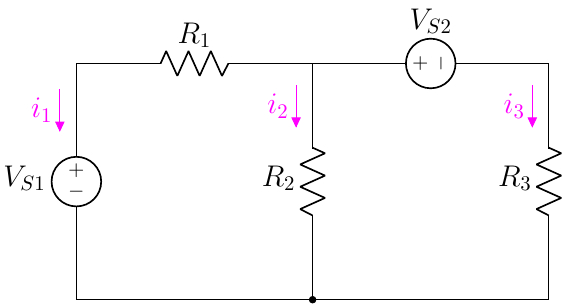
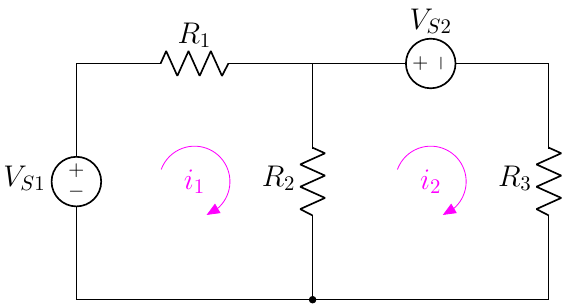
edit 3.36

diff --git a/1.5 Mesh Analysis/3.4 Mesh Analysis/3.36(new).tex b/1.5 Mesh Analysis/3.4 Mesh Analysis/3.36(new).tex
@@ -2,9 +2,9 @@
 \begin{document}
 \begin{circuitikz}[american]
     %%% vertical %%%
-    \draw[circuitikz/current arrow color=magenta](0,0)  to[V,l=\vsname{1},f<=$\color{magenta}{i_1}$] ++(0,4);
-    \draw[circuitikz/current arrow color=magenta](4,0)  to[R,l=\rname{2} ,f<=$\color{magenta}{i_2}$] ++(0,4);
-    \draw[circuitikz/current arrow color=magenta](8,0)  to[R,l=\rname{3} ,f<=$\color{magenta}{i_3}$] ++(0,4);
+    \draw(0,0)  to[V,l=\vsname{1}] ++(0,4);
+    \draw(4,0)  to[R,l=\rname{2} ] ++(0,4);
+    \draw(8,0)  to[R,l=\rname{3} ] ++(0,4);
 
     %%% horizontal %%%
 
@@ -14,6 +14,8 @@
     \draw(8,4)  to[V,l_=\vsname{2}] ++(-4,0)
                 to[R,l_=\rname{1}] ++(-4,0);
     %%% find %%%
+    \loopc{2}{2}{1};
+    \loopc{6}{2}{2};
 
 \end{circuitikz}
 \end{document}
